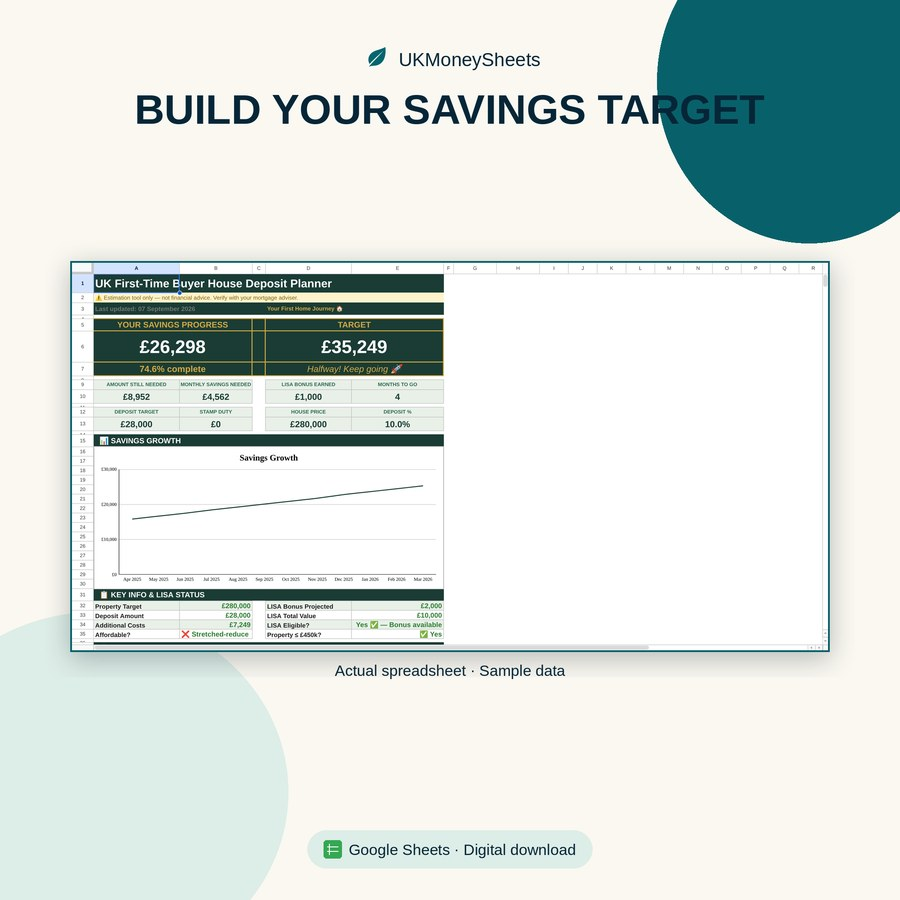
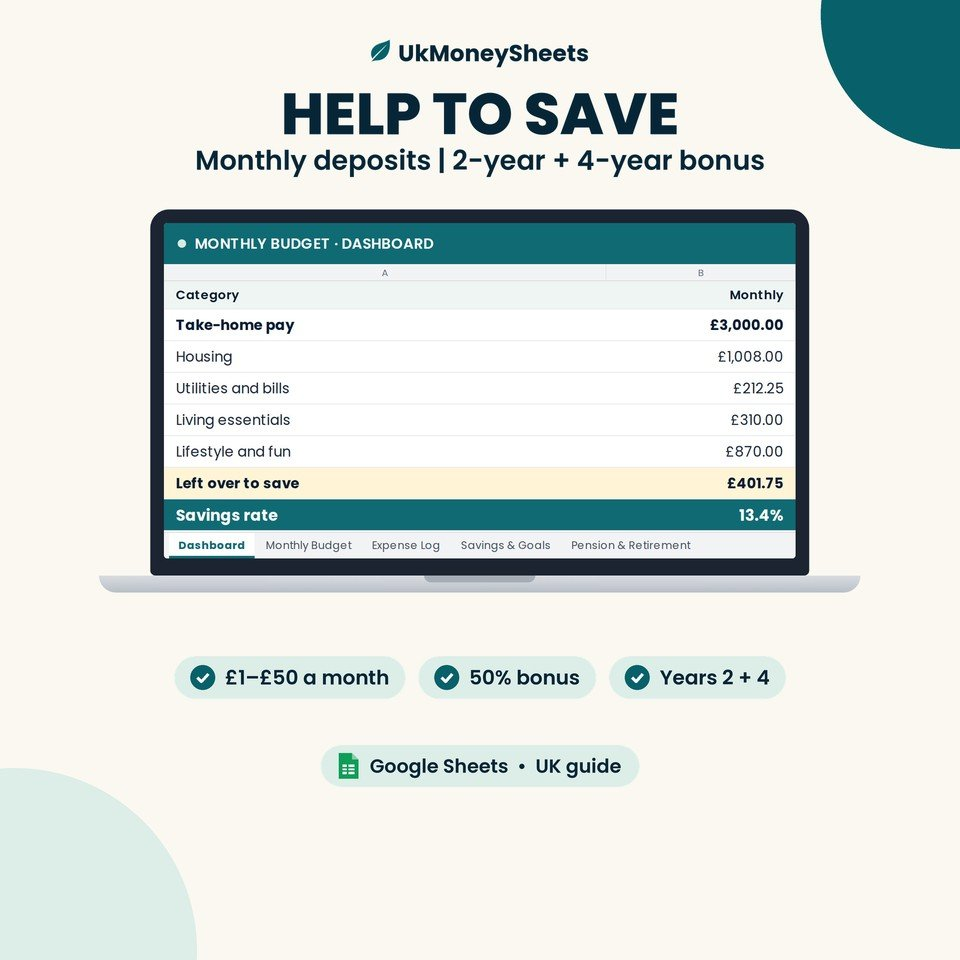
Place Nia final 3 packs: Cash ISA, Help to Save, Sheets vs Excel.
Per-page OG JPGs, card heroes, in-guide WebPs (same pattern as #7).
Add descriptive alt text on all 11 guide cards. Etsy CTAs unchanged.

diff --git a/src/lib/guides.ts b/src/lib/guides.ts
@@ -10,6 +10,8 @@ export type GuideMeta = {
   related: string[];
   /** Card + optional header preview under /guides/{slug}.jpg */
   image: string;
+  /** Short descriptive alt for guide cards (home, /guides, related). */
+  imageAlt: string;
   /** Per-page social card (1200×630). Falls back to /og.jpg. */
   ogImage?: string;
   /** Alt text for og:image. */
@@ -53,6 +55,20 @@ export const guides: GuideMeta[] = [
     category: "Savings",
     featured: true,
     image: "/guides/cash-isa-12k-under-65-planner.jpg",
+    imageAlt: "Cash ISA allowance planner for 2026/27: Google Sheets dashboard preview, sample data",
+    ogImage: "/og/cash-isa-12k-under-65-planner.jpg",
+    ogImageAlt: "Cash ISA allowance planner for 2026/27 \u2014 UkMoneySheets Google Sheets guide",
+    showHeaderImage: false,
+    inGuideImages: {
+      afterIntro: {
+        src: "/guides/inguide/cash-isa-12k-under-65-planner/1.webp",
+        alt: "Real Google Sheets screenshot: plan regular saving in Google Sheets, sample data",
+      },
+      nearChecklist: {
+        src: "/guides/inguide/cash-isa-12k-under-65-planner/2.webp",
+        alt: "Plan your 2026/27 Cash ISA allowance: Overall ISA allowance is £20,000 for 2026/27; From 6 April 2027: £12,000 cash limit if under 65; Allowances reset each 6 April and don't roll over; Log each subscription with its date and amount; Check your remaining allowance before paying in",
+      },
+    },
     shopLine:
       "Browse UK Google Sheets for budgeting and savings alongside your ISA plan on Etsy.",
     related: [
@@ -73,6 +89,20 @@ export const guides: GuideMeta[] = [
     category: "Savings",
     featured: true,
     image: "/guides/help-to-save-deposit-bonus-tracker.jpg",
+    imageAlt: "Help to Save deposits and bonus planner: Google Sheets dashboard preview, sample data",
+    ogImage: "/og/help-to-save-deposit-bonus-tracker.jpg",
+    ogImageAlt: "Help to Save deposits and bonus planner \u2014 UkMoneySheets Google Sheets guide",
+    showHeaderImage: false,
+    inGuideImages: {
+      afterIntro: {
+        src: "/guides/inguide/help-to-save-deposit-bonus-tracker/1.webp",
+        alt: "Real Google Sheets screenshot: find a monthly amount you can afford, sample data",
+      },
+      nearChecklist: {
+        src: "/guides/inguide/help-to-save-deposit-bonus-tracker/2.webp",
+        alt: "Help to Save: what to track: Pay in £1 to £50 each calendar month; Bonus is 50p for every £1 saved (50%); Bonuses come after year 2 and year 4; Log deposits, withdrawals and highest balance; Treat bonus figures as estimates",
+      },
+    },
     shopLine:
       "Browse UkMoneySheets on Etsy for UK Google Sheets that sit beside your Help to Save habit.",
     related: [
@@ -93,6 +123,7 @@ export const guides: GuideMeta[] = [
     category: "Tax",
     featured: true,
     image: "/guides/register-self-assessment-5-october.jpg",
+    imageAlt: "Register for Self Assessment by 5 October: Google Sheets dashboard preview, sample data",
     ogImage: "/og/register-self-assessment-5-october.jpg",
     ogImageAlt: "Register for Self Assessment by 5 October \u2014 UkMoneySheets Google Sheets guide",
     showHeaderImage: false,
@@ -125,6 +156,7 @@ export const guides: GuideMeta[] = [
     category: "Budgeting",
     featured: true,
     image: "/guides/uk-monthly-budget-google-sheets.jpg",
+    imageAlt: "UK monthly budget in Google Sheets: Google Sheets dashboard preview, sample data",
     ogImage: "/og/uk-monthly-budget-google-sheets.jpg",
     ogImageAlt: "UK monthly budget in Google Sheets \u2014 UkMoneySheets Google Sheets guide",
     showHeaderImage: false,
@@ -157,6 +189,7 @@ export const guides: GuideMeta[] = [
     category: "Property",
     featured: true,
     image: "/guides/house-deposit-lisa-planner.jpg",
+    imageAlt: "House deposit and LISA planner: Google Sheets dashboard preview, sample data",
     ogImage: "/og/house-deposit-lisa-planner.jpg",
     ogImageAlt: "House deposit and LISA planner \u2014 UkMoneySheets Google Sheets guide",
     showHeaderImage: false,
@@ -189,6 +222,7 @@ export const guides: GuideMeta[] = [
     category: "Property",
     featured: true,
     image: "/guides/mortgage-overpayment-calculator.jpg",
+    imageAlt: "Mortgage overpayment calculator: Google Sheets dashboard preview, sample data",
     ogImage: "/og/mortgage-overpayment-calculator.jpg",
     ogImageAlt: "Mortgage overpayment calculator \u2014 UkMoneySheets Google Sheets guide",
     showHeaderImage: false,
@@ -219,6 +253,20 @@ export const guides: GuideMeta[] = [
       "Google Sheets vs Excel for UK household budgeting: when Sheets wins for couples and phones, and when Excel still fits.",
     category: "Guides",
     image: "/guides/sheets-vs-excel-uk-budgeting.jpg",
+    imageAlt: "Google Sheets vs Excel for UK budgets: Google Sheets dashboard preview, sample data",
+    ogImage: "/og/sheets-vs-excel-uk-budgeting.jpg",
+    ogImageAlt: "Google Sheets vs Excel for UK budgets \u2014 UkMoneySheets Google Sheets guide",
+    showHeaderImage: false,
+    inGuideImages: {
+      afterIntro: {
+        src: "/guides/inguide/sheets-vs-excel-uk-budgeting/1.webp",
+        alt: "Real Google Sheets screenshot: a real Google Sheet, open in the browser, sample data",
+      },
+      nearChecklist: {
+        src: "/guides/inguide/sheets-vs-excel-uk-budgeting/2.webp",
+        alt: "Choosing for a UK household budget: Share one live link with a partner; Make quick edits on your phone; Free with a Google account for personal use; Need heavy offline desktop work? Excel may suit; Whichever you pick, start from a UK layout",
+      },
+    },
     shopLine: "Browse UkMoneySheets on Etsy — Google Sheets only, never Excel.",
     related: [
       "uk-monthly-budget-google-sheets",
@@ -236,6 +284,7 @@ export const guides: GuideMeta[] = [
       "UK Christmas savings tracker: gift list, weekly save-up, and a January buffer for rent and bills in Google Sheets.",
     category: "Savings",
     image: "/guides/uk-christmas-savings-tracker.jpg",
+    imageAlt: "Christmas savings tracker: Google Sheets dashboard preview, sample data",
     ogImage: "/og/uk-christmas-savings-tracker.jpg",
     ogImageAlt: "Christmas savings tracker \u2014 UkMoneySheets Google Sheets guide",
     showHeaderImage: false,
@@ -267,6 +316,7 @@ export const guides: GuideMeta[] = [
       "Log UK crypto trades for Section 104 and CGT: date, quantity, GBP value and fees in a simple spreadsheet.",
     category: "Tax",
     image: "/guides/uk-crypto-section-104.jpg",
+    imageAlt: "Crypto records for Section 104 and CGT: Google Sheets dashboard preview, sample data",
     ogImage: "/og/uk-crypto-section-104.jpg",
     ogImageAlt: "Crypto records for Section 104 and CGT \u2014 UkMoneySheets Google Sheets guide",
     showHeaderImage: false,
@@ -298,6 +348,7 @@ export const guides: GuideMeta[] = [
       "Track UK rental income and expenses for Self Assessment and Section 24 finance costs in Google Sheets.",
     category: "Property",
     image: "/guides/uk-landlord-section-24.jpg",
+    imageAlt: "Landlord records for Self Assessment: Google Sheets dashboard preview, sample data",
     ogImage: "/og/uk-landlord-section-24.jpg",
     ogImageAlt: "Landlord records for Self Assessment \u2014 UkMoneySheets Google Sheets guide",
     showHeaderImage: false,
@@ -330,6 +381,7 @@ export const guides: GuideMeta[] = [
       "Track side-hustle income and expenses for UK Self Assessment (SA103) in a simple tax-year spreadsheet.",
     category: "Tax",
     image: "/guides/uk-self-assessment-side-hustle-sa103.jpg",
+    imageAlt: "Side hustle records for SA103: Google Sheets dashboard preview, sample data",
     ogImage: "/og/uk-self-assessment-side-hustle-sa103.jpg",
     ogImageAlt: "Side hustle records for SA103 \u2014 UkMoneySheets Google Sheets guide",
     showHeaderImage: false,

diff --git a/src/components/guide-card.tsx b/src/components/guide-card.tsx
@@ -30,7 +30,7 @@ export function GuideCard({
       <div className="relative aspect-[16/10] overflow-hidden bg-mint/40">
         <img
           src={guide.image}
-          alt=""
+          alt={guide.imageAlt}
           width={960}
           height={600}
           loading="lazy"
